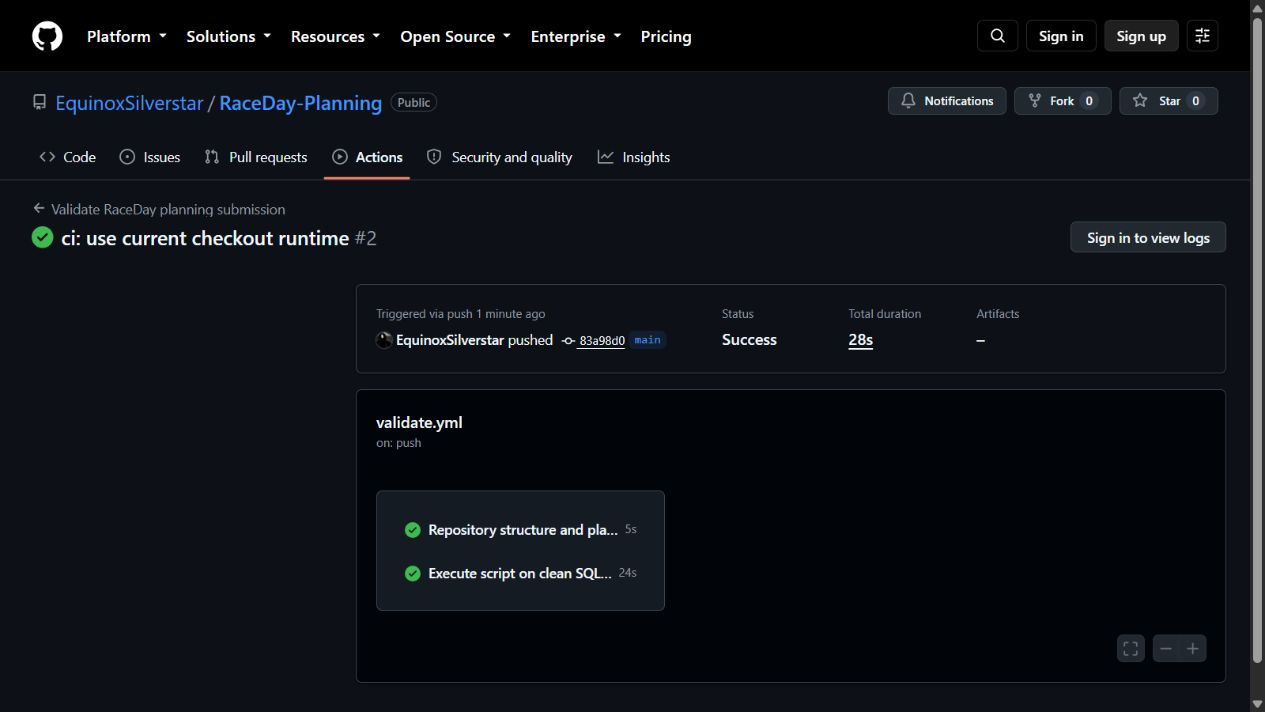
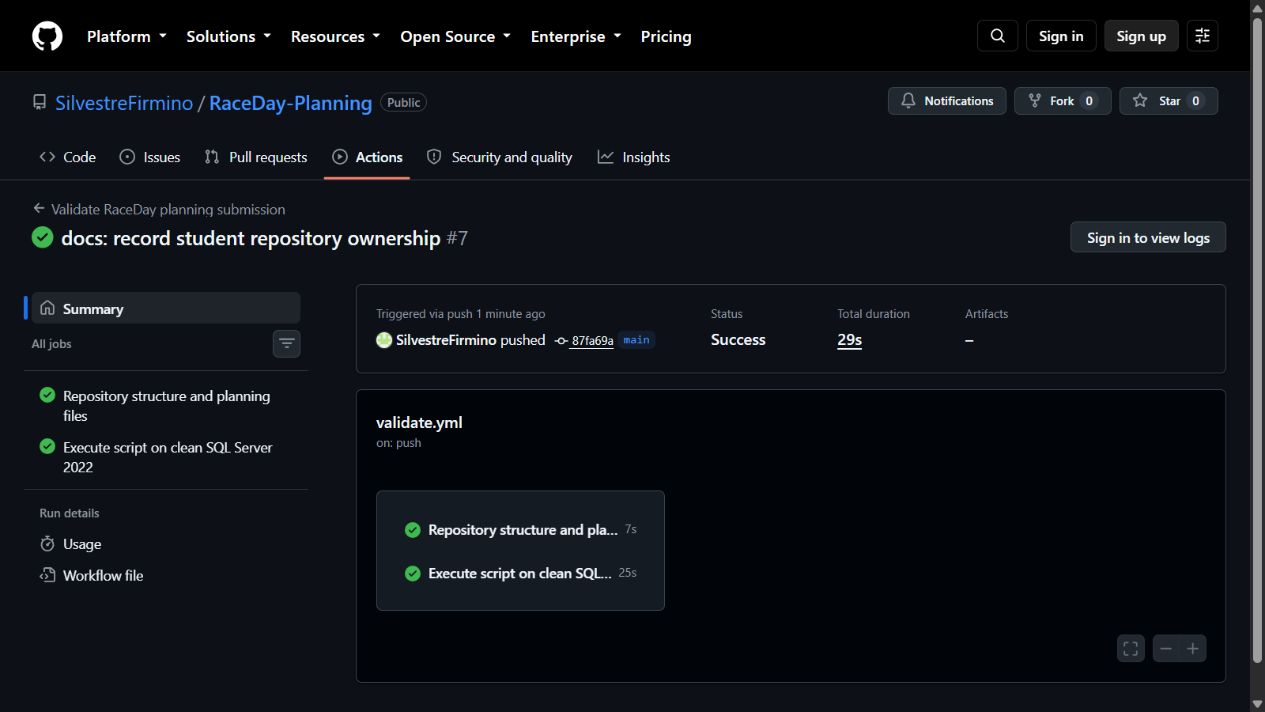
I replaced CI evidence with my student-account run

diff --git a/README.md b/README.md
@@ -54,7 +54,7 @@ The screenshot below records a successful run in which both the repository-struc
 
 ![Successful RaceDay GitHub Actions build](docs/ci-success.png)
 
-[View the successful clean-instance validation run](https://github.com/SilvestreFirmino/RaceDay-Planning/actions/runs/33743217884).
+[View the successful student-account clean-instance validation run](https://github.com/SilvestreFirmino/RaceDay-Planning/actions/runs/33749453678).
 
 ## Video walkthrough
 
